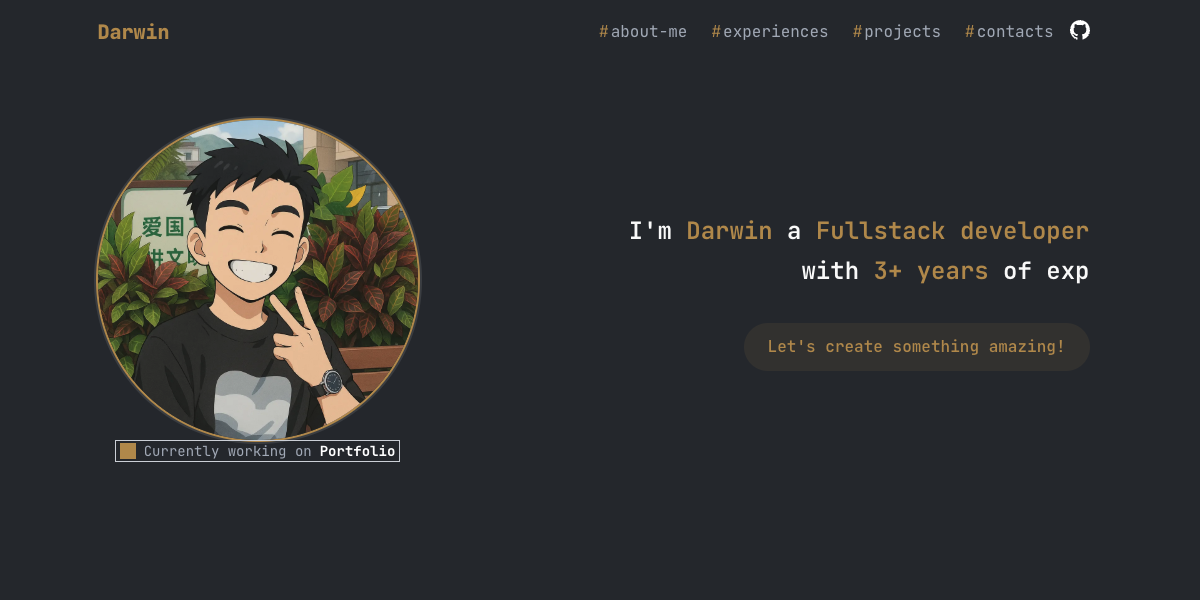
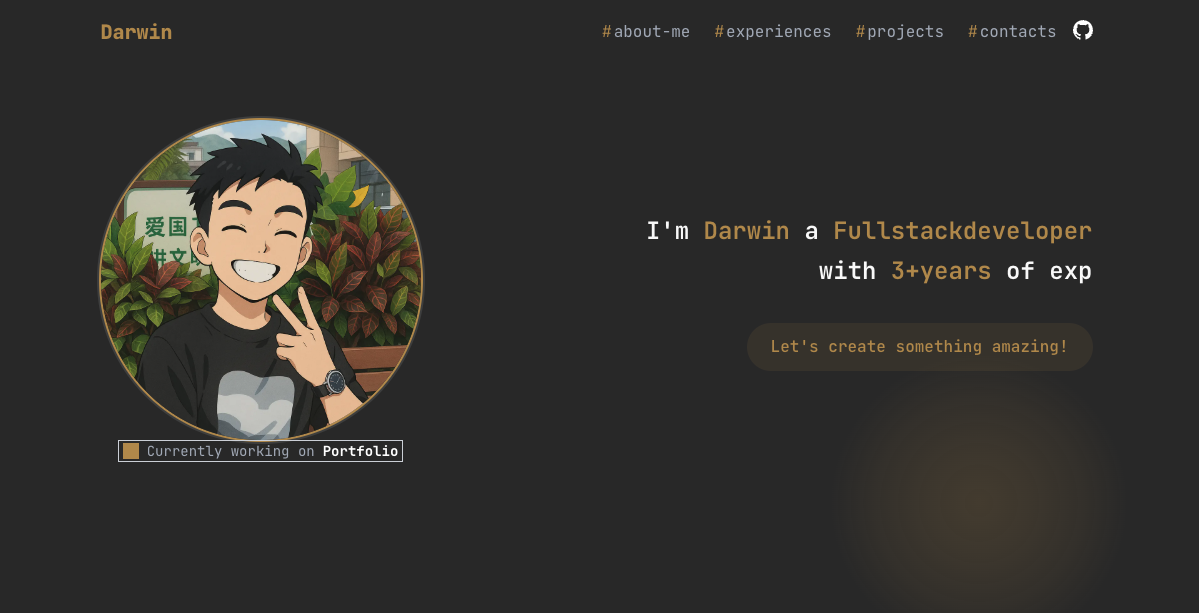
chore: change background colors

diff --git a/src/styles/globals.css b/src/styles/globals.css
@@ -81,7 +81,7 @@
 }
 
 .dark {
-  --background: #282C33;
+  --background: oklch(0.3 0 0);
   --foreground: oklch(0.985 0 0);
   --card: oklch(0.205 0 0);
   --card-foreground: oklch(0.985 0 0);
@@ -164,9 +164,9 @@
   z-index: 9999;
   transform: translate(-50%, -50%);
   background: radial-gradient(circle,
-      rgba(185, 147, 76, 0.08) 0%,
-      rgba(185, 147, 76, 0.05) 25%,
-      rgba(185, 147, 76, 0.02) 50%,
+      rgba(185, 147, 76, 0.15) 0%,
+      rgba(185, 147, 76, 0.10) 25%,
+      rgba(185, 147, 76, 0.05) 50%,
       transparent 70%);
   border-radius: 50%;
   transition: all 0.1s ease-out;
@@ -174,9 +174,9 @@
 
 .dark .cursor-shadow {
   background: radial-gradient(circle,
-      rgba(185, 147, 76, 0.12) 0%,
-      rgba(185, 147, 76, 0.08) 25%,
-      rgba(185, 147, 76, 0.04) 50%,
+      rgba(185, 147, 76, 0.20) 0%,
+      rgba(185, 147, 76, 0.15) 25%,
+      rgba(185, 147, 76, 0.08) 50%,
       transparent 70%);
   mix-blend-mode: normal;
 }

diff --git a/src/app/page.tsx b/src/app/page.tsx
@@ -16,7 +16,7 @@ export default function Home() {
         dangerouslySetInnerHTML={{ __html: JSON.stringify(getPageJsonLd()) }}
       />
 
-      <div className="flex flex-col space-y-16 md:space-y-28">
+      <div className="flex flex-col space-y-16 md:space-y-36">
         <Overview />
 
         <About />

diff --git a/src/const/config.ts b/src/const/config.ts
@@ -9,5 +9,5 @@ export const SITE_INFO = {
 
 export const META_THEME_COLORS = {
   light: "#ffffff",
-  dark: "#282C33",
+  dark: "#4D4D4D",
 };
